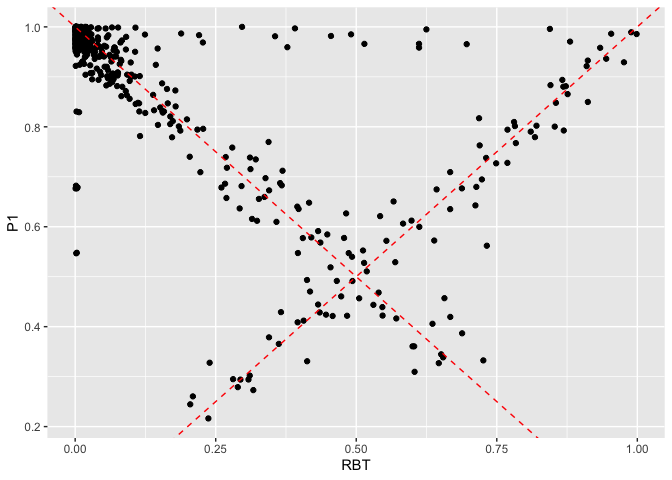
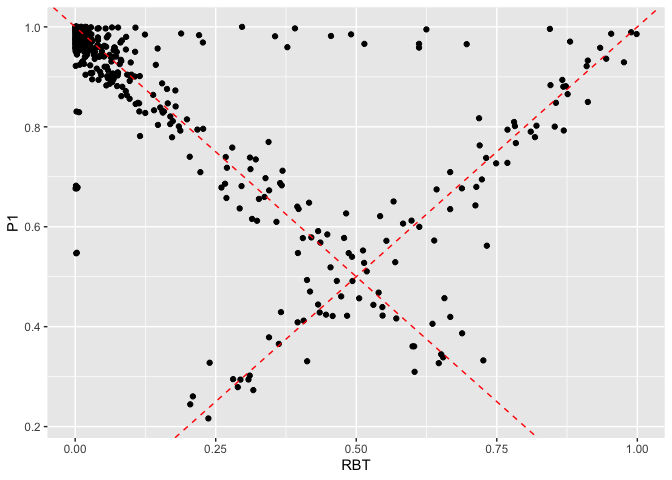
Revamped some figures

diff --git a/README.md b/README.md
@@ -501,3 +501,145 @@ So, now I just need to:
 
 It all ran great, except about 120 of the jobs ran out of memory, so I
 upped those to 8 cores and 25800 Mb.
+
+## Redoing the small-120 Sequoia runs with same cohort included
+
+I noticed that the Sequoia ROCs were the same for same_cohort_included
+and also same_cohort_excluded. Turns out that they are all excluded. I
+found updates to Sequoia2.R on my laptop that were never pushed to the
+cluster. I am wondering if I can commit and push those and then see how
+things work.
+
+Before I commit and push, I will try some test cases. Here on Feb 19 on
+Alpine I have put the old values into place so that when I do:
+
+``` sh
+(snakemake-9.13.7) login-ci4 MixedUpParents-sims-and-analyses (main)--% snakemake -np --rerun-triggers mtime --configfile config/config_120.yaml
+
+# I get
+
+Config file config/config.yaml is extended by additional config specified via the command line.
+host: login-ci4
+Building DAG of jobs...
+Nothing to be done (all requested files are present and up to date).
+1236 jobs have missing provenance/metadata so that it in part cannot be used to trigger re-runs.
+Rules with missing metadata: compute_rocs gather_rocs hot_scores mup_logls naive_logls run_sequoia slim_sim tweak2mup
+```
+
+That is great. Now, I can try removing the same_cohort_included runs
+from sequoia. There are 156 of them:
+
+    (snakemake-9.13.7) login-ci4 MixedUpParents-sims-and-analyses (main)--% find results/scenario-small_cyclone_nonWF  -path  "*sequoia/include*" | wc
+        156     156   28456
+
+So, I did:
+
+``` sh
+(snakemake-9.13.7) login-ci4 MixedUpParents-sims-and-analyses (main)--% rm  $(find results/scenario-small_cyclone_nonWF  -path  "*sequoia/include*")
+```
+
+And then we have to move the gathered results out of there, too
+
+``` sh
+(snakemake-9.13.7) login-ci4 summarized (main)--% mv all-rocs.rds Feb19-2026-all-rocs.rds
+(snakemake-9.13.7) login-ci4 summarized (main)--% pwd
+/home/[email redacted]/scratch/PROJECTS/MixedUpParents-sims-and-analyses/results/summarized
+```
+
+And now when we do a dry run again:
+
+``` sh
+(snakemake-9.13.7) login-ci4 MixedUpParents-sims-and-analyses (main)--% snakemake -np --rerun-triggers mtime --configfile config/config_120.yaml
+
+Shell command: None
+Job stats:
+job             count
+------------  -------
+all                 1
+compute_rocs      160
+gather_rocs         1
+naive_logls       160
+run_sequoia        78
+total             400
+
+```
+
+That looks totally right. sequoia being run 78 times would produce the
+156 output files I just deleted. I am not sure why naive logls is in
+there. We don’t really use it. It would be nice to remove them from
+consideration. But before I do that, I am going to try running a single
+sequoia run
+
+    results/scenario-small_cyclone_nonWF/ps1-120-ps2-120-mr1-0.05-mr2-0.05/rep-5/ppn-0.5-verr-0.01-derr-0.004-vmiss-0.5-dmiss-0.5/sequoia/include_same_cohort-only_var-simresults.rds
+
+But before I do that I see that I need to be running it on the other
+branch so that I have an R installation that works. I branched off of
+relate-admix-on-alpine to create rerun-sequoia-smalls and then I had to
+change the rule all…
+
+``` sh
+(snakemake-9.13.7) login-ci4 MixedUpParents-sims-and-analyses (relate-admix-on-alpine)--% snakemake -np --rerun-triggers mtime --configfile config/config_120.yaml --profile hpcc-profiles/slurm/alpine-smk9
+
+Shell command: None
+Job stats:
+job            count
+-----------  -------
+all                1
+gather_rocs        1
+run_sequoia       78
+total             80
+
+Reasons:
+```
+
+that looks just right.
+
+Getting sequoia for the cluster is a hassle. I could not compile it
+because of the SHLIB_ADD problem in the r-4.5.2-chunky env. So I made a
+new r-base env and included r-sequoia in it from conda. Turns out the
+conda version was 2.7.2 and I had 2.11.2 on my laptop. The old version
+had a hard time with NA in the genotypes. But in the new conda env, I
+was able to install from CRAN. Now I have version 3.2.0 on there. So
+let’s check it out:
+
+``` sh
+snakemake -p results/scenario-small_cyclone_nonWF/ps1-120-ps2-120-mr1-0.02-mr2-0.02/rep-1/ppn-0.5-verr-0.01-derr-0.004-vmiss-0.5-dmiss-0.5/sequoia/include_same_cohort-only_var-rocresults.rds --rerun-triggers mtime --configfile config/config_120.yaml --profile hpcc-profiles/slurm/alpine-smk9
+```
+
+That Finished! Sadly though, it didn’t work. None of the pairs have a
+logl_ratio. I suspect that there changes going from 2.11.2 to 3.2.0 that
+broke my code. Let’s see if I can roll it back to 2.11.2…
+
+So, I did:
+
+``` sh
+remotes::install_version("sequoia", version = "2.11.2", repos = "http://cran.us.r-project.org")
+```
+
+And that appears to have been successful. So, I am going to rerun the
+included cohort one and then I should find that it gives the same
+results as the excluded cohort one since I have not yet pushed up the
+Sequoia2.R script.
+
+I don’t get the same thing. Hmmm.. Maybe I had made some changes to that
+script already. I will check by regenerating the exclude_same_cohort
+results:
+
+``` sh
+# save the existing one by moving it
+(r-sequoia) login-ci4 MixedUpParents-sims-and-analyses (rerun-sequoia-smalls)--% mkdir SavedRes
+(r-sequoia) login-ci4 MixedUpParents-sims-and-analyses (rerun-sequoia-smalls)--% mv results/scenario-small_cyclone_nonWF/ps1-120-ps2-120-mr1-0.02-mr2-0.02/rep-1/ppn-0.5-verr-0.01-derr-0.004-vmiss-0.5-dmiss-0.5/sequoia/exclude_same_cohort-only_var-rocresults.rds SavedRes/
+
+# then regenerate it:
+ℹ Checking input data ...
+! There are 6 monomorphic (fixed) SNPs, these will be excluded
+! There are 316 SNPs scored for <50% of individuals
+ℹ After exclusion, There are  358  individuals and  565  SNPs.
+✖ Column order and/or column names in LifeHistData is unclear
+Error: Please provide LifeHistData as ID - Sex - BirthYear (- BY.min - BY.max - Year.last)
+Execution halted
+```
+
+Nope, that failed too. Weird.
+
+So,